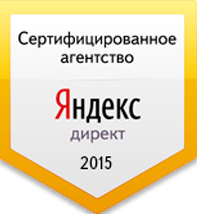
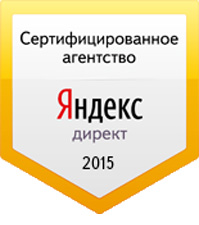
Подкорректирован адаптив для блока about-search

Changed region(s): [[0.0, 0.0561, 1.0, 1.0]]

diff --git a/css/style.css b/css/style.css
@@ -1016,10 +1016,11 @@ body {
   margin: 0 auto;
 }
 
+.about-search__image {
+  padding-bottom: 30px;
+}
+
 @media (max-width: 768px) {
-  .about-search {
-    padding-bottom: 0;
-  }
   .about-search-wrap {
     -webkit-box-orient: vertical;
     -webkit-box-direction: normal;
@@ -1054,8 +1055,13 @@ body {
     -webkit-box-pack: justify;
         -ms-flex-pack: justify;
             justify-content: space-between;
-    width: 90%;
+    width: 80%;
     margin: 0 auto;
+  }
+  .about-search__image {
+    padding-bottom: 0;
+    width: 30%;
+    height: 70%;
   }
 }
 
@@ -1082,10 +1088,6 @@ body {
     width: 80%;
     margin: 0 auto;
   }
-  .about-search__image {
-    width: 40%;
-    height: 90%;
-  }
 }
 
 @media (max-width: 500px) {
@@ -1100,7 +1102,7 @@ body {
     margin: 0 auto;
   }
   .about-search__image {
-    width: 40%;
+    width: 35%;
     height: 90%;
   }
 }

diff --git a/sass/sections/_about-search.sass b/sass/sections/_about-search.sass
@@ -26,6 +26,8 @@
     display: flex
     flex-direction: column
     margin: 0 auto
+  &__image
+    padding-bottom: 30px
 
 @media(max-width: 768px)
   .about-search
@@ -50,10 +52,12 @@
     &__image-block
       flex-direction: row 
       justify-content: space-between
-      width: 90%
+      width: 80%
       margin: 0 auto
     &__image
-    padding-bottom: 0
+      padding-bottom: 0
+      width: 30%
+      height: 70%
 @media(max-width: 600px)
   .about-search
     &-wrap
@@ -70,9 +74,6 @@
     &__image-block
       width: 80%
       margin: 0 auto
-    &__image
-      width: 40%
-      height: 90%
 @media(max-width: 500px)
   .about-search
     &-wrap
@@ -84,7 +85,7 @@
       width: 80%
       margin: 0 auto
     &__image
-      width: 40%
+      width: 35%
       height: 90%
       
     

diff --git a/index.html b/index.html
@@ -219,7 +219,7 @@
               присутствие на лидирующих позициях и 
               привлечение необходимой аудитории.</p>
           </div>
-          <div class="about-search__image-block"><img src="img/about-search/google-icon.jpg" alt="" class="about-search__image"><img src="img/about-search/yandex-icon.jpg" alt="" class="about-search__image"></div>
+          <div class="about-search__image-block"><img src="img/about-search/google-icon.jpg" alt="" class="about-search__image"><img src="img/about-search/yandex-icon.png" alt="" class="about-search__image"></div>
         </div>
       </div>
     </section>
